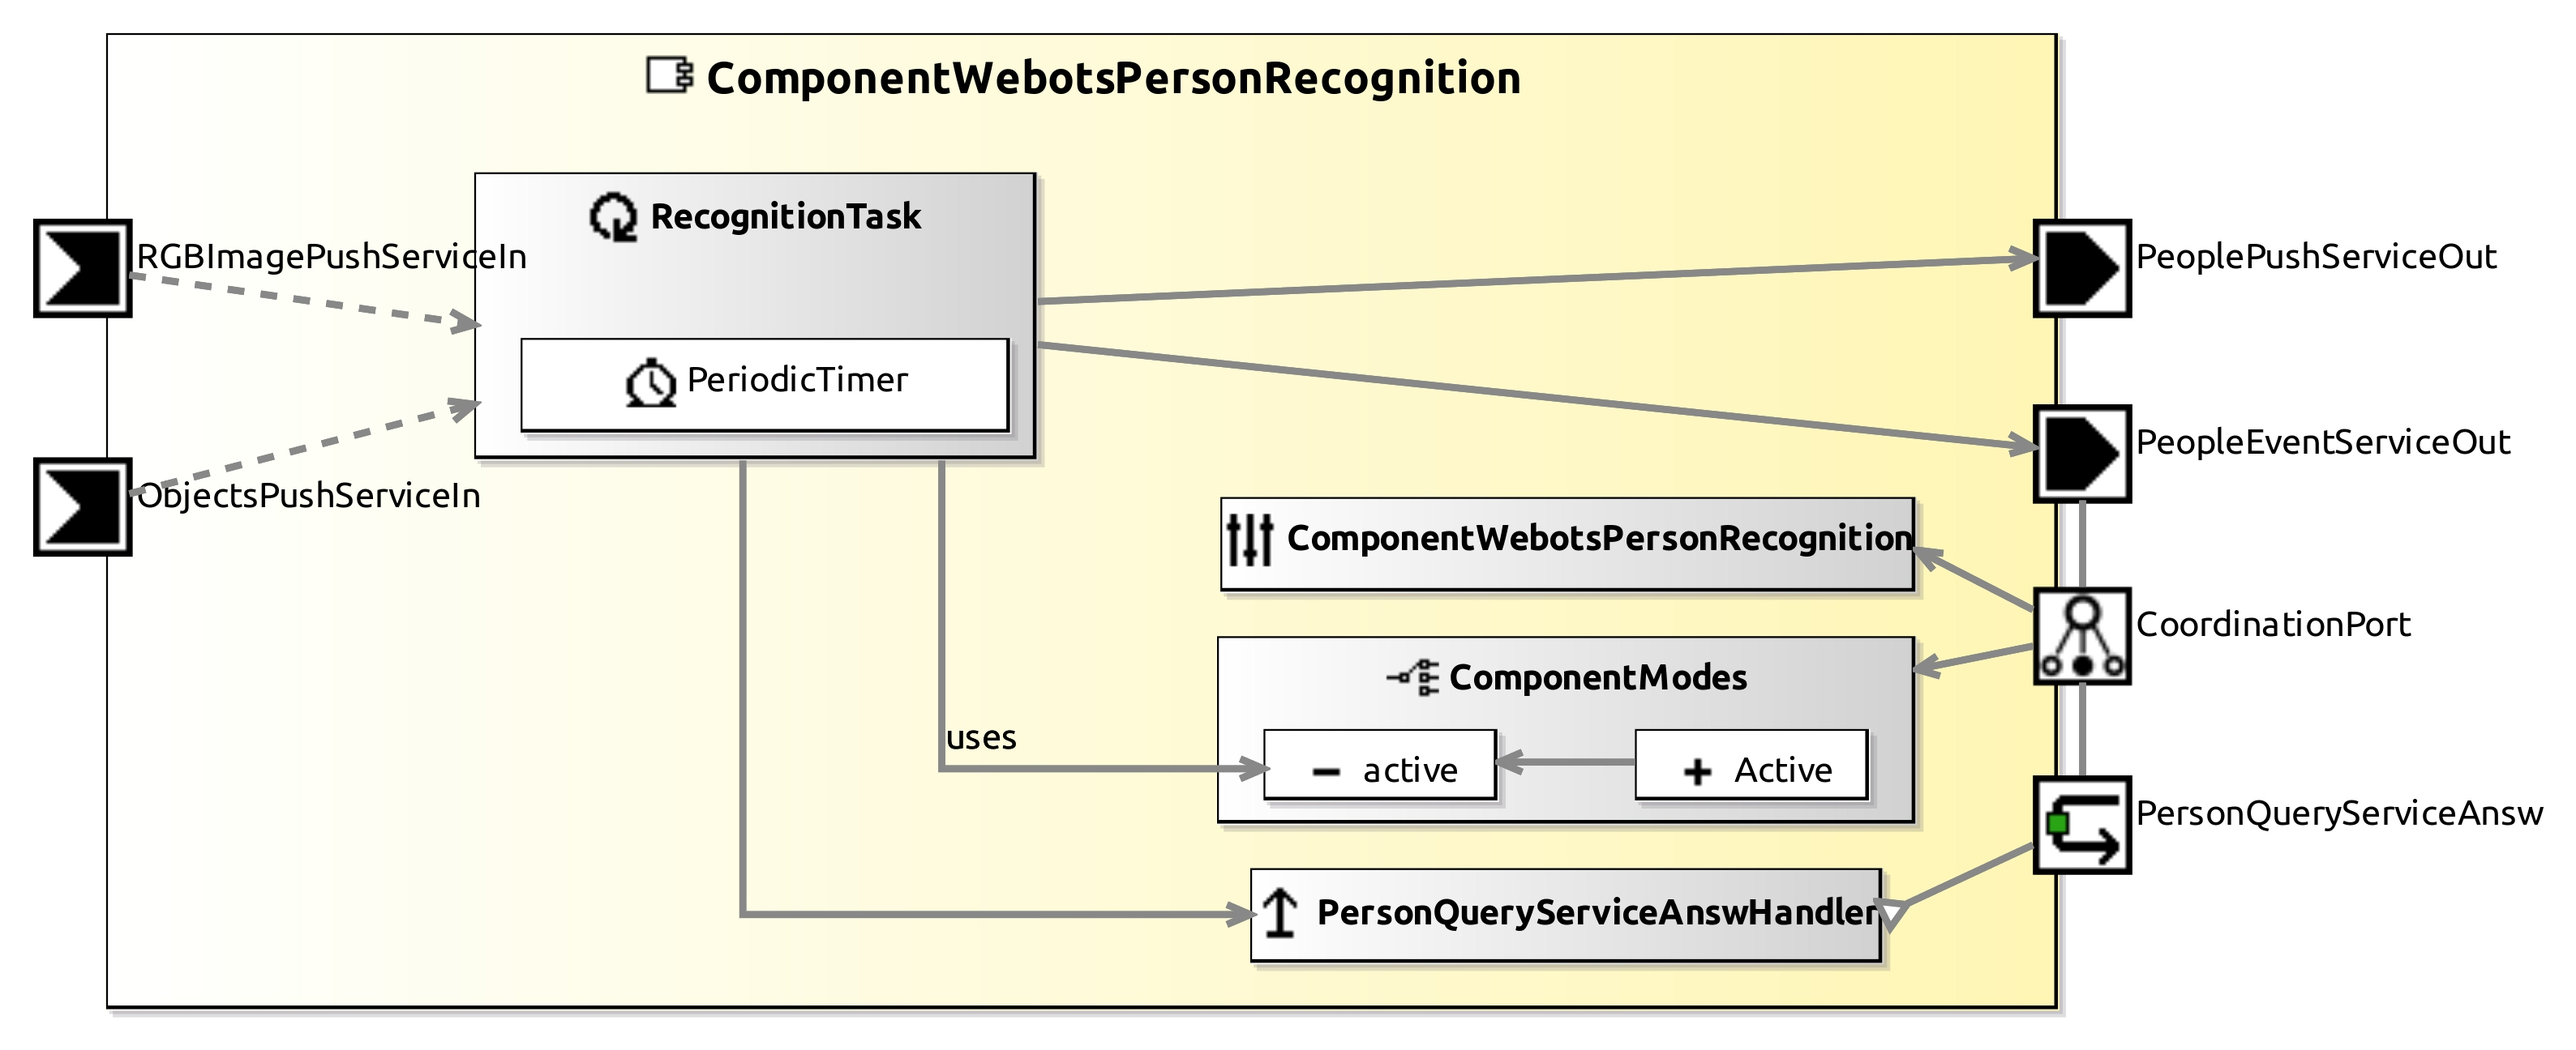
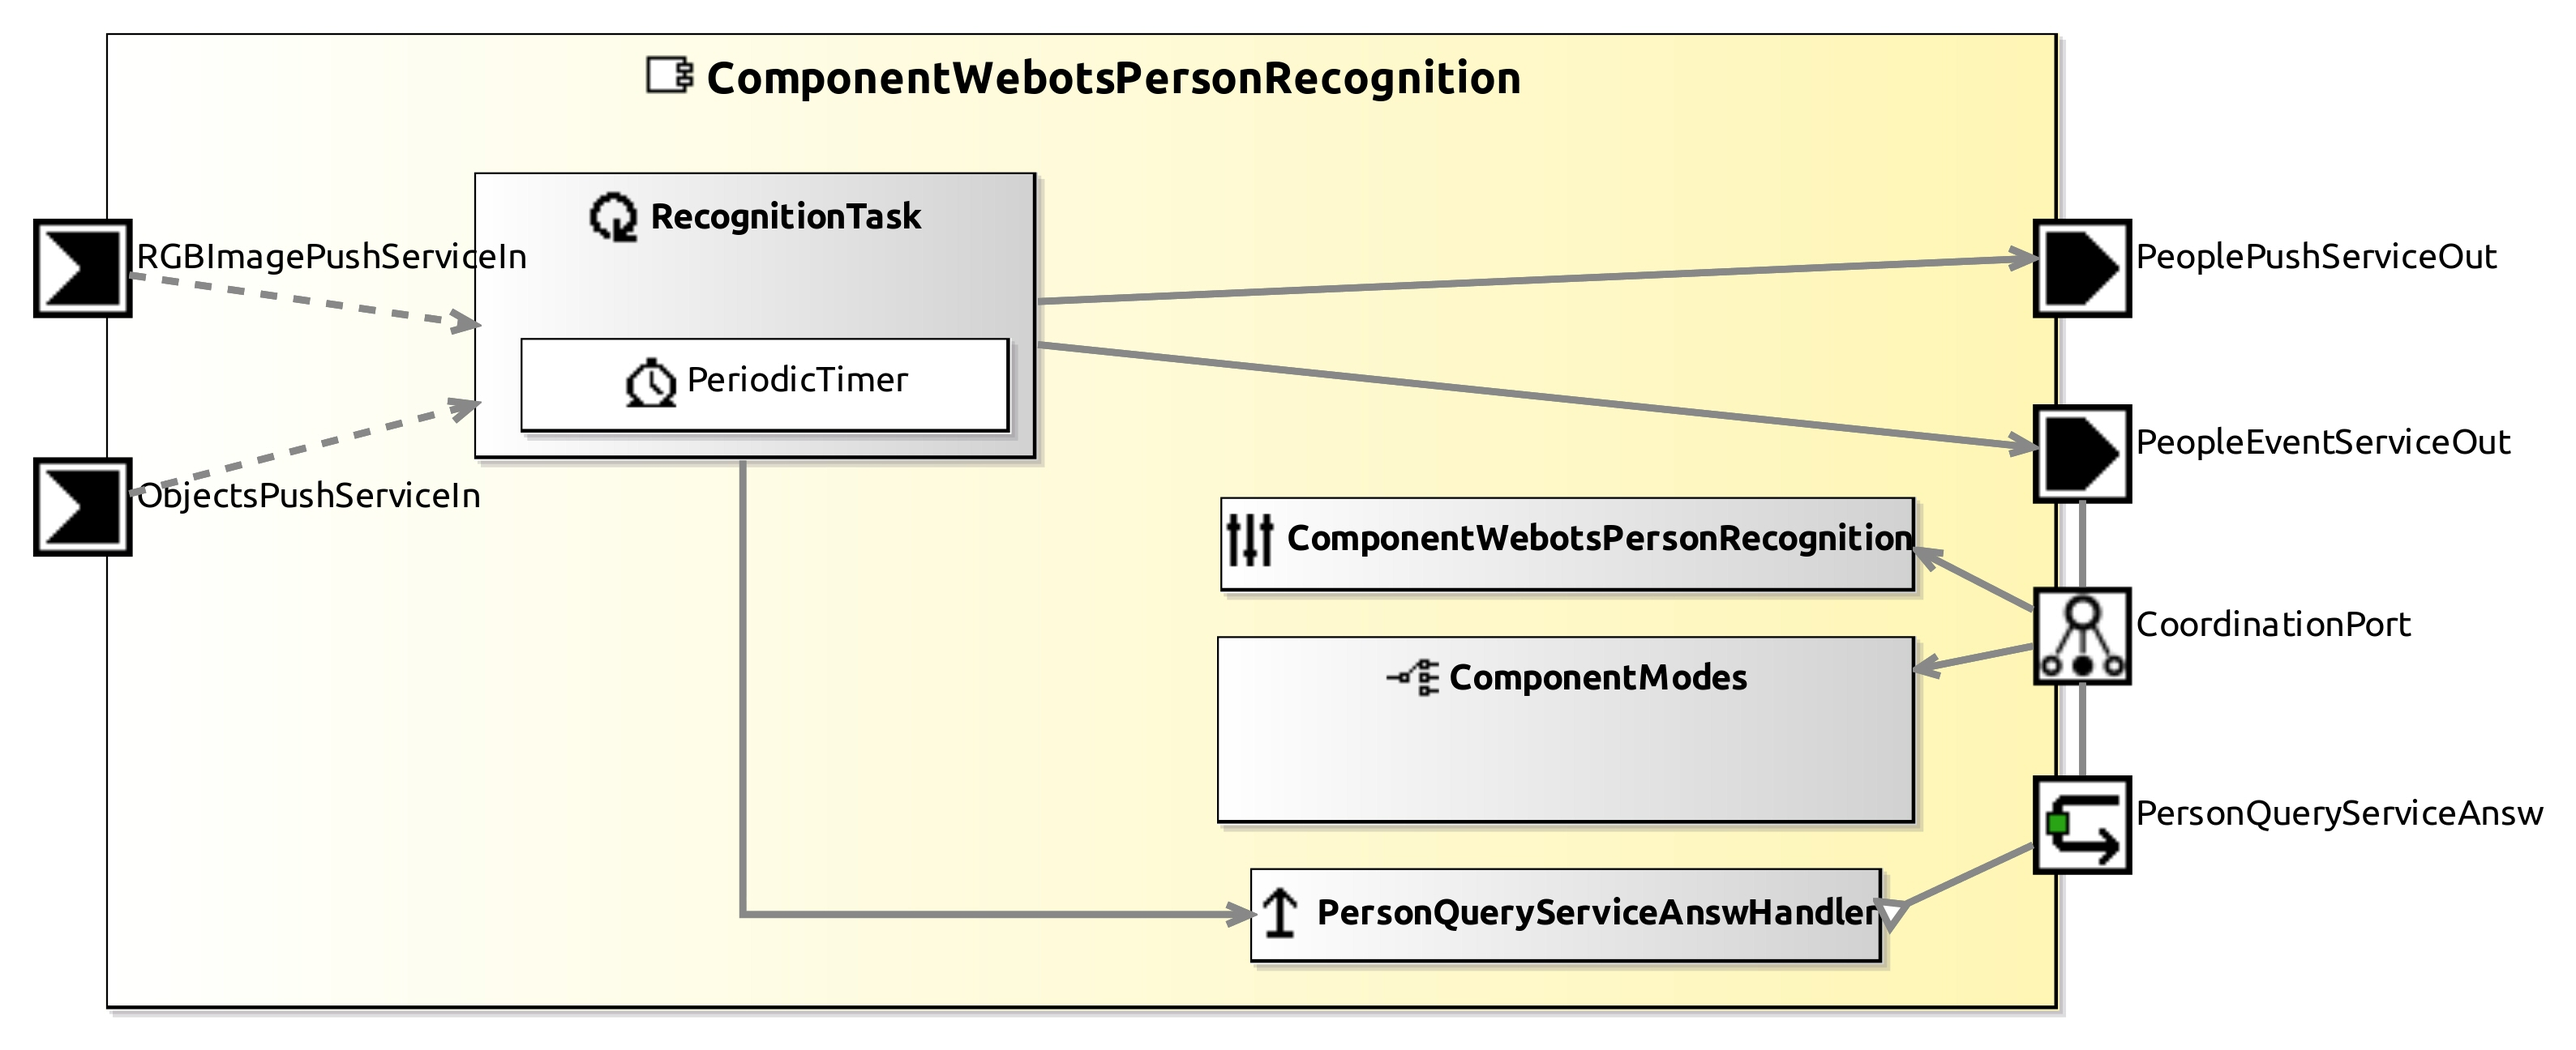
remove activation mode, update image and make event with appropiate state

Changed region(s): [[0.3428, 0.679, 0.7479, 0.7716]]

diff --git a/ComponentWebotsPersonRecognition/smartsoft/src/RecognitionTask.cc b/ComponentWebotsPersonRecognition/smartsoft/src/RecognitionTask.cc
@@ -166,15 +166,14 @@ void RecognitionTask::comparePeopleJson()
 	_comm_people.clearPeople();
 	_comm_people.setIs_valid(false);
 	CommObjectRecognitionObjects::CommObjectRecognitionEventState state;
+	state.set_object_id_size(people.size());
+	for (size_t i = 0; i < people.size(); ++i)
+		state.set_object_id(i, people[i].getId());
+	
 	if (people.size() > 0)
 	{
 		_comm_people.setIs_valid(true);
-		state.set_state(CommObjectRecognitionObjects::ObjectRecognitionState::VISIBLE);
-		std::vector<int> ids;
-		state.set_object_id_size(people.size());
-		for (size_t i = 0; i < people.size(); ++i)
-			state.set_object_id(i, people[i].getId());
-		
+		state.set_state(CommObjectRecognitionObjects::ObjectRecognitionState::ENUM_ObjectRecognitionState::VISIBLE);
 	}
 	else
 	{

diff --git a/ComponentWebotsPersonRecognition/smartsoft/src/PeopleEventServiceOutEventTestHandler.cc b/ComponentWebotsPersonRecognition/smartsoft/src/PeopleEventServiceOutEventTestHandler.cc
@@ -21,8 +21,8 @@ bool PeopleEventServiceOutEventTestHandler::testEvent(
 	CommObjectRecognitionObjects::CommObjectRecognitionEventResult &r,
 	const CommObjectRecognitionObjects::CommObjectRecognitionEventState &s
 ) throw() {
-		if (s.get_state() == CommObjectRecognitionObjects::ObjectRecognitionState::VISIBLE)
-			r.setObject_id(s.getObject_idCopy());
+		r.setObject_id(s.getObject_idCopy());
 		r.set_state(r.get_state());
+		std::cout << "recognition event: " << r << "\n";
 	return true;
 }
